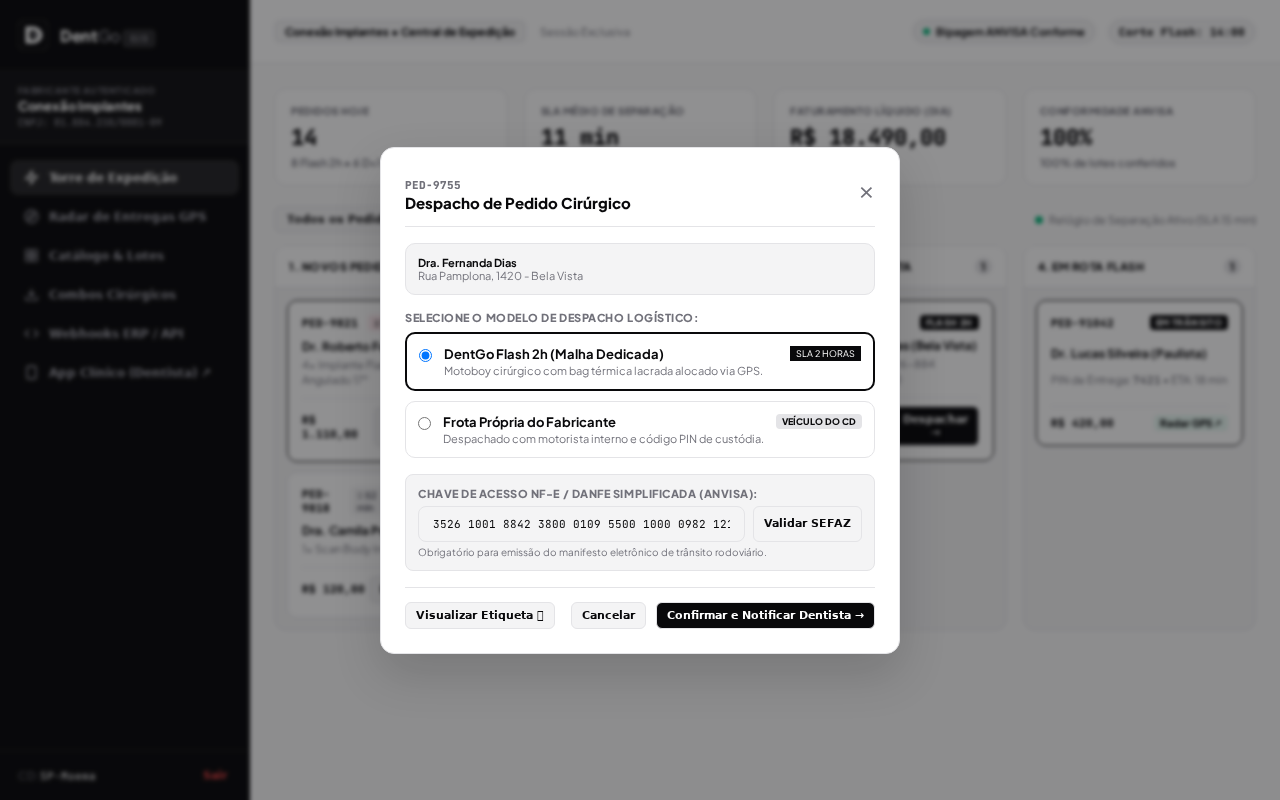
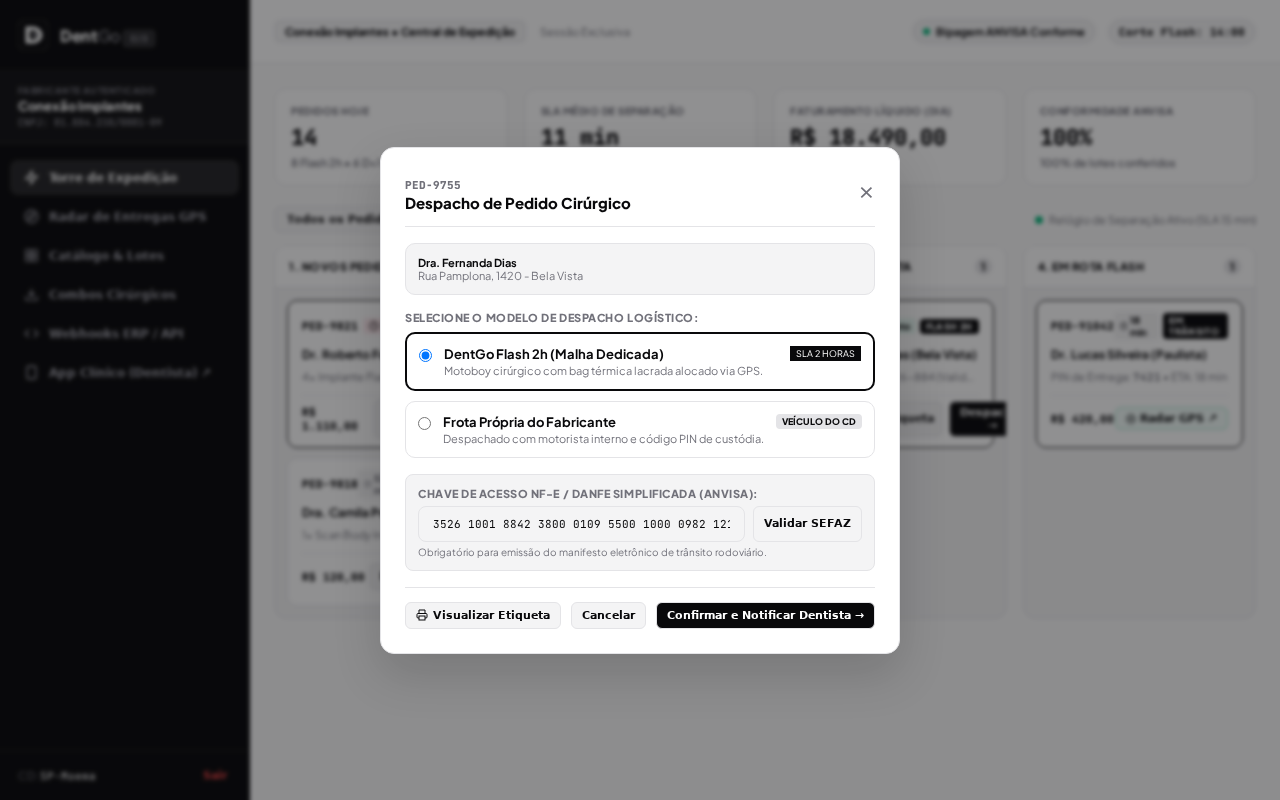
fix(b2b): padronizacao rigorosa de altura dos cards kanban (148px) e remocao total de emojis por SVGs

diff --git a/desktop/b2b.html b/desktop/b2b.html
@@ -475,7 +475,11 @@
       border: 1.5px solid var(--border);
       border-radius: 10px;
       padding: 14px;
-      min-height: 146px;
+      height: 148px !important;
+      min-height: 148px !important;
+      max-height: 148px !important;
+      flex-shrink: 0;
+      box-sizing: border-box;
       display: flex;
       flex-direction: column;
       justify-content: space-between;
@@ -498,12 +502,16 @@
       justify-content: space-between;
       align-items: center;
       margin-bottom: 8px;
+      height: 22px;
+      flex-shrink: 0;
     }
 
     .card-id {
       font-size: 11px;
       font-weight: 800;
       color: var(--text);
+      white-space: nowrap;
+      flex-shrink: 0;
     }
 
     .card-sla-badge {
@@ -530,13 +538,24 @@
       font-weight: 700;
       color: var(--text);
       margin-bottom: 4px;
+      height: 16px;
+      line-height: 16px;
+      flex-shrink: 0;
+      white-space: nowrap;
+      overflow: hidden;
+      text-overflow: ellipsis;
     }
 
     .card-items-desc {
       font-size: 11px;
       color: var(--text-muted);
-      margin-bottom: 10px;
-      line-height: 1.35;
+      margin-bottom: 8px;
+      height: 16px;
+      line-height: 16px;
+      flex-shrink: 0;
+      white-space: nowrap;
+      overflow: hidden;
+      text-overflow: ellipsis;
     }
 
     .card-bottom {
@@ -545,6 +564,9 @@
       align-items: center;
       border-top: 1px dashed var(--border);
       padding-top: 8px;
+      height: 38px;
+      flex-shrink: 0;
+      box-sizing: border-box;
     }
 
     .btn-b2b-action {
@@ -932,6 +954,8 @@
 
       .kanban-card {
         padding: 14px;
+        height: auto;
+        min-height: 154px;
       }
 
       /* Barra de Navegação Inferior Nativa do Coletor Mobile (Tátil >= 48px) */
@@ -1215,7 +1239,10 @@
                 <div class="card-top">
                   <span class="card-id mono">PED-9821</span>
                   <div style="display:flex; gap:4px; align-items:center;">
-                    <span class="timer-corte" style="font-size:9.5px; font-weight:800; color:var(--rose); background:rgba(244,63,94,0.1); padding:2px 6px; border-radius:4px;">⏱ 18 min</span>
+                    <span class="timer-corte" style="font-size:9.5px; font-weight:800; color:var(--rose); background:rgba(244,63,94,0.1); padding:2px 6px; border-radius:4px; display:inline-flex; align-items:center; gap:3px;">
+                      <svg width="10" height="10" viewBox="0 0 24 24" fill="none" stroke="currentColor" stroke-width="2.5"><circle cx="12" cy="12" r="10"/><polyline points="12 6 12 12 16 14"/></svg>
+                      18 min
+                    </span>
                     <span class="card-sla-badge badge-flash">Flash 2h</span>
                   </div>
                 </div>
@@ -1231,7 +1258,10 @@
                 <div class="card-top">
                   <span class="card-id mono">PED-9818</span>
                   <div style="display:flex; gap:4px; align-items:center;">
-                    <span class="timer-corte" style="font-size:9.5px; font-weight:800; color:var(--text-muted); background:var(--surface-subtle); padding:2px 6px; border-radius:4px;">⏱ 52 min</span>
+                    <span class="timer-corte" style="font-size:9.5px; font-weight:800; color:var(--text-muted); background:var(--surface-subtle); padding:2px 6px; border-radius:4px; display:inline-flex; align-items:center; gap:3px;">
+                      <svg width="10" height="10" viewBox="0 0 24 24" fill="none" stroke="currentColor" stroke-width="2.5"><circle cx="12" cy="12" r="10"/><polyline points="12 6 12 12 16 14"/></svg>
+                      52 min
+                    </span>
                     <span class="card-sla-badge badge-normal">Normal (Hoje)</span>
                   </div>
                 </div>
@@ -1255,7 +1285,13 @@
               <div class="kanban-card flash" onclick="abrirModalConferencia('PED-9799', 'Dr. Marcos Vianna (Itaim Bibi)', ['1x Kit Cirúrgico Compacto Cone Morse (SKU: CX-KIT-CM-COMP)'])">
                 <div class="card-top">
                   <span class="card-id mono">PED-9799</span>
-                  <span class="card-sla-badge badge-flash">Flash 2h</span>
+                  <div style="display:flex; gap:4px; align-items:center;">
+                    <span class="timer-corte" style="font-size:9.5px; font-weight:800; color:var(--rose); background:rgba(244,63,94,0.1); padding:2px 6px; border-radius:4px; display:inline-flex; align-items:center; gap:3px;">
+                      <svg width="10" height="10" viewBox="0 0 24 24" fill="none" stroke="currentColor" stroke-width="2.5"><circle cx="12" cy="12" r="10"/><polyline points="12 6 12 12 16 14"/></svg>
+                      12 min
+                    </span>
+                    <span class="card-sla-badge badge-flash">Flash 2h</span>
+                  </div>
                 </div>
                 <div class="card-client">Dr. Marcos Vianna (Itaim Bibi)</div>
                 <div class="card-items-desc">1x Kit Cirúrgico Compacto Cone Morse</div>
@@ -1277,13 +1313,25 @@
               <div class="kanban-card flash">
                 <div class="card-top">
                   <span class="card-id mono">PED-9755</span>
-                  <span class="card-sla-badge badge-flash">Flash 2h</span>
+                  <div style="display:flex; gap:4px; align-items:center;">
+                    <span class="timer-corte" style="font-size:9.5px; font-weight:800; color:var(--emerald); background:rgba(16,185,129,0.1); padding:2px 6px; border-radius:4px; display:inline-flex; align-items:center; gap:3px;">
+                      <svg width="10" height="10" viewBox="0 0 24 24" fill="none" stroke="currentColor" stroke-width="2.5"><polyline points="20 6 9 17 4 12"/></svg>
+                      Pronto
+                    </span>
+                    <span class="card-sla-badge badge-flash">Flash 2h</span>
+                  </div>
                 </div>
                 <div class="card-client">Dra. Fernanda Dias (Bela Vista)</div>
                 <div class="card-items-desc">Lote: LOT-CX-2026-884 (Validade: 10/2031)</div>
                 <div class="card-bottom">
-                  <button class="btn-b2b-action" style="font-size:11px;" onclick="abrirEtiquetaExpedicao('PED-9755', 'Dra. Fernanda Dias', 'Rua Pamplona, 1420 - Bela Vista', 'LOT-CX-2026-884', '4829')">🖨 Etiqueta ZPL/PDF</button>
-                  <button class="btn-b2b-action" style="background:#09090B; color:#FFF; font-weight:800;" onclick="abrirModalDespachoHibrido('PED-9755', 'Dra. Fernanda Dias', 'Rua Pamplona, 1420 - Bela Vista')">Despachar &rarr;</button>
+                  <span class="mono" style="font-size:11px; font-weight:800;">R$ 1.450,00</span>
+                  <div style="display:flex; gap:6px;">
+                    <button class="btn-b2b-action" style="font-size:11px; display:inline-flex; align-items:center; gap:4px; padding:4px 8px;" onclick="abrirEtiquetaExpedicao('PED-9755', 'Dra. Fernanda Dias', 'Rua Pamplona, 1420 - Bela Vista', 'LOT-CX-2026-884', '4829')">
+                      <svg width="12" height="12" viewBox="0 0 24 24" fill="none" stroke="currentColor" stroke-width="2"><polyline points="6 9 6 2 18 2 18 9"/><path d="M6 18H4a2 2 0 0 1-2-2v-5a2 2 0 0 1 2-2h16a2 2 0 0 1 2 2v5a2 2 0 0 1-2 2h-2"/><rect x="6" y="14" width="12" height="8"/></svg>
+                      Etiqueta
+                    </button>
+                    <button class="btn-b2b-action" style="background:#09090B; color:#FFF; font-weight:800; padding:4px 10px;" onclick="abrirModalDespachoHibrido('PED-9755', 'Dra. Fernanda Dias', 'Rua Pamplona, 1420 - Bela Vista')">Despachar &rarr;</button>
+                  </div>
                 </div>
               </div>
             </div>
@@ -1299,13 +1347,22 @@
               <div class="kanban-card flash" onclick="abrirRastreioLive('PED-91042', 'Dr. Lucas Silveira (Paulista)')" style="cursor:pointer;" title="Clique para rastrear piloto em tempo real">
                 <div class="card-top">
                   <span class="card-id mono">PED-91042</span>
-                  <span class="card-sla-badge badge-flash">Em Trânsito</span>
+                  <div style="display:flex; gap:4px; align-items:center;">
+                    <span class="timer-corte" style="font-size:9.5px; font-weight:800; color:var(--text); background:var(--surface-subtle); padding:2px 6px; border-radius:4px; display:inline-flex; align-items:center; gap:3px;">
+                      <svg width="10" height="10" viewBox="0 0 24 24" fill="none" stroke="currentColor" stroke-width="2.5"><circle cx="12" cy="12" r="10"/><polyline points="12 6 12 12 16 14"/></svg>
+                      18 min
+                    </span>
+                    <span class="card-sla-badge badge-flash">Em Trânsito</span>
+                  </div>
                 </div>
                 <div class="card-client">Dr. Lucas Silveira (Paulista)</div>
                 <div class="card-items-desc">PIN de Entrega: <strong class="mono">7421</strong> • ETA: 18 min</div>
                 <div class="card-bottom">
                   <span class="mono" style="font-size:11px; font-weight:800;">R$ 420,00</span>
-                  <span style="font-size:10px; font-weight:800; color:var(--emerald); background:rgba(16,185,129,0.1); padding:2px 6px; border-radius:4px;">Radar GPS &nearr;</span>
+                  <button class="btn-b2b-action" style="font-size:11px; color:var(--emerald); border-color:rgba(16,185,129,0.3); background:rgba(16,185,129,0.06); font-weight:800; display:inline-flex; align-items:center; gap:4px; padding:4px 10px;" onclick="abrirRastreioLive('PED-91042', 'Dr. Lucas Silveira')">
+                    <svg width="10" height="10" viewBox="0 0 24 24" fill="none" stroke="currentColor" stroke-width="2.5"><circle cx="12" cy="12" r="10"/><circle cx="12" cy="12" r="3"/></svg>
+                    Radar GPS &nearr;
+                  </button>
                 </div>
               </div>
             </div>
@@ -1580,7 +1637,10 @@
       </div>
 
       <div style="display:flex; justify-content:space-between; align-items:center; border-top:1px solid var(--border); padding-top:14px;">
-        <button class="btn-b2b-action" type="button" onclick="abrirEtiquetaExpedicao(pedidoDespachoAtual, document.getElementById('despacho-cliente').innerText, document.getElementById('despacho-endereco').innerText, 'LOT-CX-2026-884', '4829')">Visualizar Etiqueta 🖨</button>
+        <button class="btn-b2b-action" type="button" style="display:inline-flex; align-items:center; gap:5px;" onclick="abrirEtiquetaExpedicao(pedidoDespachoAtual, document.getElementById('despacho-cliente').innerText, document.getElementById('despacho-endereco').innerText, 'LOT-CX-2026-884', '4829')">
+          <svg width="12" height="12" viewBox="0 0 24 24" fill="none" stroke="currentColor" stroke-width="2"><polyline points="6 9 6 2 18 2 18 9"/><path d="M6 18H4a2 2 0 0 1-2-2v-5a2 2 0 0 1 2-2h16a2 2 0 0 1 2 2v5a2 2 0 0 1-2 2h-2"/><rect x="6" y="14" width="12" height="8"/></svg>
+          Visualizar Etiqueta
+        </button>
         <div style="display:flex; gap:10px;">
           <button class="btn-b2b-action" onclick="fecharModalDespachoHibrido()">Cancelar</button>
           <button class="btn-b2b-action" style="background:#09090B; color:#FFFFFF; font-weight:800;" onclick="confirmarDespachoHibrido()">Confirmar e Notificar Dentista &rarr;</button>
@@ -1653,7 +1713,10 @@
         <span style="font-size:11px; color:#71717A;">Padrão Zebra ZPL / 100x150 mm</span>
         <div style="display:flex; gap:8px;">
           <button class="btn-b2b-action" type="button" onclick="fecharEtiquetaExpedicao()">Fechar</button>
-          <button class="btn-b2b-action" style="background:#09090B; color:#FFF; font-weight:800;" onclick="imprimirEtiquetaZPL()">Imprimir Etiqueta (Térmica) 🖨</button>
+          <button class="btn-b2b-action" style="background:#09090B; color:#FFF; font-weight:800; display:inline-flex; align-items:center; gap:5px;" onclick="imprimirEtiquetaZPL()">
+            <svg width="12" height="12" viewBox="0 0 24 24" fill="none" stroke="currentColor" stroke-width="2"><polyline points="6 9 6 2 18 2 18 9"/><path d="M6 18H4a2 2 0 0 1-2-2v-5a2 2 0 0 1 2-2h16a2 2 0 0 1 2 2v5a2 2 0 0 1-2 2h-2"/><rect x="6" y="14" width="12" height="8"/></svg>
+            Imprimir Etiqueta (Térmica)
+          </button>
         </div>
       </div>
     </div>
@@ -2239,7 +2302,7 @@
         if (temFlash43 && pedidoExigeFlash35) {
           // Disparo de bloqueio de segurança
           if (navigator.vibrate) navigator.vibrate([150, 100, 150, 100, 250]);
-          alert("⚠ TRAVA DE SEGURANÇA CLÍNICA ATIVADA!\n\nVocê bipou um Implante de diâmetro 4.3mm, mas a prescrição cirúrgica do Dr. Roberto Fontes exige 3.5mm!\n\nBipagem rejeitada para evitar intercorrência cirúrgica.");
+          alert("TRAVA DE SEGURANCA CLINICA ATIVADA!\n\nVoce bipou um Implante de diametro 4.3mm, mas a prescricao cirurgica do Dr. Roberto Fontes exige 3.5mm!\n\nBipagem rejeitada para evitar intercorrencia cirurgica.");
           e.target.value = "";
           return;
         }
